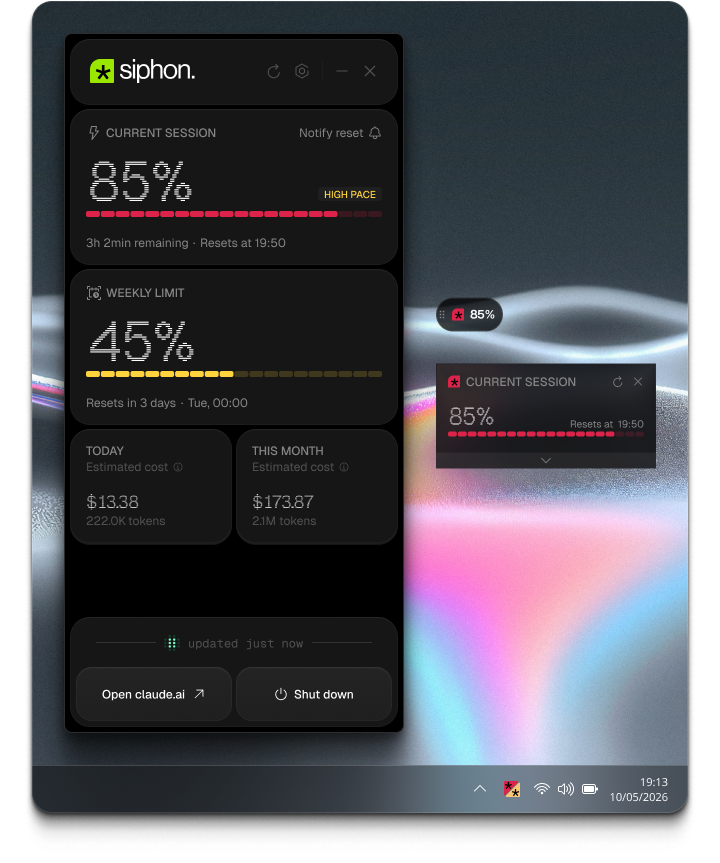
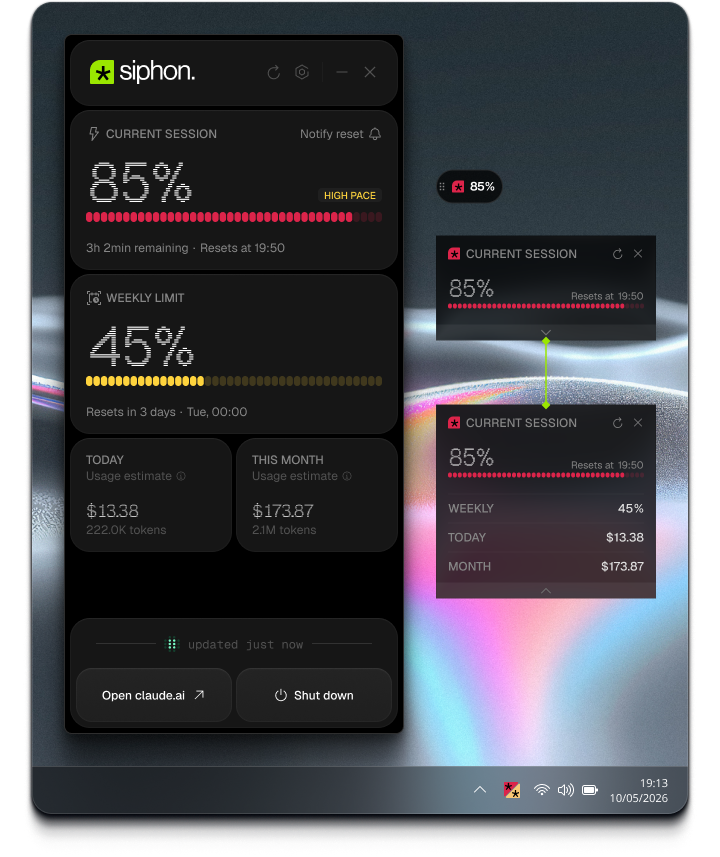
chore(copy): replace cost/costs with usage across user-facing text v1.0.0
Avoids winget financial-policy bot triggers. No JS variables,
CSS classes, or i18n keys renamed — values only.

diff --git a/src/shared/i18n.js b/src/shared/i18n.js
@@ -9,10 +9,10 @@ const STRINGS = Object.freeze({
 
     'onboarding.welcome': 'Welcome to Siphon',
     'onboarding.lead':
-      'Track your Claude AI usage and Claude Code costs from your Windows tray. Get notified when your session resets.',
+      'Track your Claude AI usage and Claude Code token usage from your Windows tray. Get notified when your session resets.',
     'onboarding.copy.sessionStrong': 'Live session quota',
     'onboarding.copy.sessionMuted': 'from your Claude AI plan.',
-    'onboarding.copy.costStrong': 'Token cost',
+    'onboarding.copy.costStrong': 'Token usage',
     'onboarding.copy.costMuted': 'read from your local Claude Code cache.',
     'onboarding.copy.notifyStrong': 'Reset notifications',
     'onboarding.copy.notifyMuted': 'the moment a new session opens.',
@@ -29,7 +29,7 @@ const STRINGS = Object.freeze({
     'home.month': 'This Month',
     'home.notif.on': 'Notify reset',
     'home.notif.off': "Don't notify reset",
-    'home.costEstimate': 'Estimated cost',
+    'home.costEstimate': 'Usage estimate',
     'home.costTooltip': 'Computed from local Claude Code cache × pricing table. May differ from actual billing.',
     'pace.no_data': 'No pace yet',
     'pace.on_track': 'On track',
@@ -143,10 +143,10 @@ const STRINGS = Object.freeze({
 
     'onboarding.welcome': 'Boas-vindas ao Siphon',
     'onboarding.lead':
-      'Acompanhe seu uso do Claude AI e os custos do Claude Code pela bandeja do Windows. Receba um aviso quando sua sessão reiniciar.',
+      'Acompanhe seu uso do Claude AI e o uso de tokens do Claude Code pela bandeja do Windows. Receba um aviso quando sua sessão reiniciar.',
     'onboarding.copy.sessionStrong': 'Cota de sessão ao vivo',
     'onboarding.copy.sessionMuted': 'do seu plano Claude AI.',
-    'onboarding.copy.costStrong': 'Custo do token',
+    'onboarding.copy.costStrong': 'Uso de tokens',
     'onboarding.copy.costMuted': 'lido do seu cache local do Claude Code.',
     'onboarding.copy.notifyStrong': 'Notificações de redefinição',
     'onboarding.copy.notifyMuted': 'no momento em que uma nova sessão se abre.',
@@ -163,7 +163,7 @@ const STRINGS = Object.freeze({
     'home.month': 'Este mês',
     'home.notif.on': 'Notificar reset',
     'home.notif.off': 'Não notificar reset',
-    'home.costEstimate': 'Custo estimado',
+    'home.costEstimate': 'Uso estimado',
     'home.costTooltip': 'Calculado a partir do cache local do Claude Code × tabela de preços. Pode divergir da fatura real.',
     'pace.no_data': 'Sem ritmo ainda',
     'pace.on_track': 'No ritmo',

diff --git a/src/renderer/index.html b/src/renderer/index.html
@@ -49,7 +49,7 @@
             </span>
             <span class="copy-strong" data-i18n="onboarding.copy.sessionStrong">Live session quota</span>
             <span class="copy-muted" data-i18n="onboarding.copy.sessionMuted">from your Claude AI plan.</span>
-            <span class="copy-strong" data-i18n="onboarding.copy.costStrong">Token cost</span>
+            <span class="copy-strong" data-i18n="onboarding.copy.costStrong">Token usage</span>
             <span class="feature-chip feature-chip-currency" aria-hidden="true">
               <svg viewBox="0 0 24 24"><path d="M12 3a9 9 0 1 0 0 18 9 9 0 0 0 0-18Zm1 14h-2v-2H8v-2h5a1 1 0 0 0 0-2h-2a3 3 0 0 1 0-6h1V3h2v2h2v2h-5a1 1 0 0 0 0 2h2a3 3 0 0 1 0 6v2Z"/></svg>
             </span>
@@ -183,8 +183,8 @@
           <article class="card cost-card">
             <span class="card-eyebrow" data-i18n="home.today">Today</span>
             <span class="cost-estimate-row">
-              <span data-i18n="home.costEstimate">Estimated cost</span>
-              <button type="button" class="cost-info-btn" data-i18n-title="home.costTooltip" tabindex="0" aria-label="Cost calculation info">
+              <span data-i18n="home.costEstimate">Usage estimate</span>
+              <button type="button" class="cost-info-btn" data-i18n-title="home.costTooltip" tabindex="0" aria-label="Usage calculation info">
                 <!-- Carbon: Information -->
                 <svg viewBox="0 0 32 32" xmlns="http://www.w3.org/2000/svg" aria-hidden="true"><path d="M16,2A14,14,0,1,0,30,16,14,14,0,0,0,16,2Zm0,26A12,12,0,1,1,28,16,12,12,0,0,1,16,28Z"/><path d="M16 13H14V23H18V21H16zM15.5 8.5A1.5 1.5 0 1 0 17 10 1.5 1.5 0 0 0 15.5 8.5z"/></svg>
               </button>
@@ -195,8 +195,8 @@
           <article class="card cost-card">
             <span class="card-eyebrow" data-i18n="home.month">This Month</span>
             <span class="cost-estimate-row">
-              <span data-i18n="home.costEstimate">Estimated cost</span>
-              <button type="button" class="cost-info-btn" data-i18n-title="home.costTooltip" tabindex="0" aria-label="Cost calculation info">
+              <span data-i18n="home.costEstimate">Usage estimate</span>
+              <button type="button" class="cost-info-btn" data-i18n-title="home.costTooltip" tabindex="0" aria-label="Usage calculation info">
                 <!-- Carbon: Information -->
                 <svg viewBox="0 0 32 32" xmlns="http://www.w3.org/2000/svg" aria-hidden="true"><path d="M16,2A14,14,0,1,0,30,16,14,14,0,0,0,16,2Zm0,26A12,12,0,1,1,28,16,12,12,0,0,1,16,28Z"/><path d="M16 13H14V23H18V21H16zM15.5 8.5A1.5 1.5 0 1 0 17 10 1.5 1.5 0 0 0 15.5 8.5z"/></svg>
               </button>

diff --git a/README.md b/README.md
@@ -16,7 +16,7 @@
 
 ---
 
-Siphon sits quietly in your system tray and shows session quota, weekly limits, and daily/monthly costs — all pulled directly from Claude Code's local files and the Anthropic OAuth usage endpoint. No API keys, no configuration: if you use Claude Code, it just works.
+Siphon sits quietly in your system tray and shows session quota, weekly limits, and daily/monthly usage — all pulled directly from Claude Code's local files and the Anthropic OAuth usage endpoint. No API keys, no configuration: if you use Claude Code, it just works.
 
 The Windows-specific addition is a **reset notification**: when your five-hour session quota hits 100%, Siphon schedules a Windows toast for the exact moment it becomes available again. If the app was closed during that window, it fires the missed notification on the next launch.
 
@@ -26,7 +26,7 @@ This is a Windows port of [appariciojunior/siphonClaudeUsage](https://github.com
 
 * **Session quota** | Live progress bar showing your current 5-hour session usage with a reset countdown
 * **Weekly limits** | Tracks the all-model weekly cap returned by the OAuth usage endpoint
-* **Cost tracking** | Today's and this month's spend in USD, computed locally from Claude Code's usage and pricing files
+* **Usage tracking** | Today's and this month's token usage in USD, computed locally from Claude Code's usage and pricing files
 * **Reset notification** | Windows toast when your session resets — even if the app was closed when it happened
 * **Sound alerts** | Three independent audio cues: session reset, session exhausted (100%), and quota warnings (70%/90%) — each with its own toggle, test button, and volume slider
 * **Floating widget** | Always-on-top widget (PiP-style) you can drag anywhere on screen — two layouts: classic (full stats) and pill (compact single-line)
@@ -80,12 +80,12 @@ Preload (CJS)       — exposes window.siphon.* to the renderer
 Renderer (ESM)      — vanilla JS + CSS, no framework
 ```
 
-Cost figures are computed locally from Claude Code's usage data. Siphon first
+Usage figures are computed locally from Claude Code's usage data. Siphon first
 uses the legacy token cache (`readout-cost-cache.json`) when present; otherwise
 it scans modern per-session JSONL files under `~/.claude/projects/` and keeps an
 internal incremental cache so unchanged session files are not re-read. Pricing
 comes from `readout-pricing.json` when available, with bundled fallback prices
-for known Claude models. No data leaves your machine for cost calculations.
+for known Claude models. No data leaves your machine for usage calculations.
 
 ### Data stored on disk
 